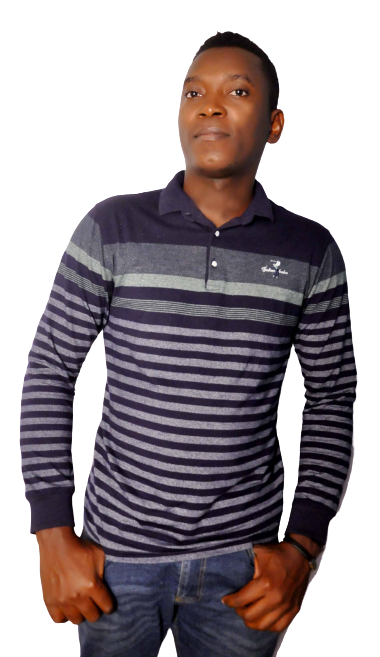
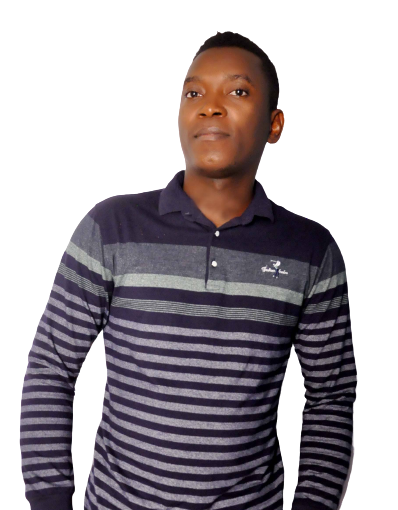
fixes upon fixes

diff --git a/src/components/Hero.jsx b/src/components/Hero.jsx
@@ -5,7 +5,7 @@ const Hero = () => {
 		<section id="colorlib-hero" className="js-fullheight" data-section="home">
 			<div className="flexslider js-fullheight">
 				<ul className="slides">
-					<li className="slides-bg">
+					<li>
 						<div className="slide-overlay"></div>
 						<div className="overlay"></div>
 						<div className="container-fluid">
@@ -33,7 +33,7 @@ const Hero = () => {
 							</div>
 						</div>
 					</li>
-					<li className="slides-bg">
+					<li>
 						<div className="overlay"></div>
 						<div className="container-fluid">
 							<div className="row">

diff --git a/public/css/style.css b/public/css/style.css
@@ -61,8 +61,9 @@ h6 {
 
 .hero-img {
 	position: absolute;
-  opacity: 0.7;
-  right: 0;
+	opacity: 0.7;
+	top: 8%;
+	right: 15%;
 }
 
 @media screen and (max-width: 768px) {
@@ -71,16 +72,10 @@ h6 {
 		background: whitesmoke;
 		opacity: 1;
 		color: #000 !important;
-    margin-top: 30%;
+		margin-top: 30%;
 		width: 300px;
 	}
 }
-
-/* @media screen and (min-width: 768px) {
-	.info-desc h1 {
-		font-size: 5rem !important;
-	}
-} */
 
 figure {
 	margin-bottom: 2.5em;

diff --git a/src/components/Sidebar.jsx b/src/components/Sidebar.jsx
@@ -12,7 +12,7 @@ const Sidebar = () => {
 			>
 				<i></i>
 			</span>
-			<aside
+			<div
 				id="colorlib-aside"
 				role="complementary"
 				className="border js-fullheight"
@@ -98,7 +98,7 @@ const Sidebar = () => {
 						</ul>
 					</div>
 				</div>
-			</aside>
+			</div>
 		</>
 	);
 };
